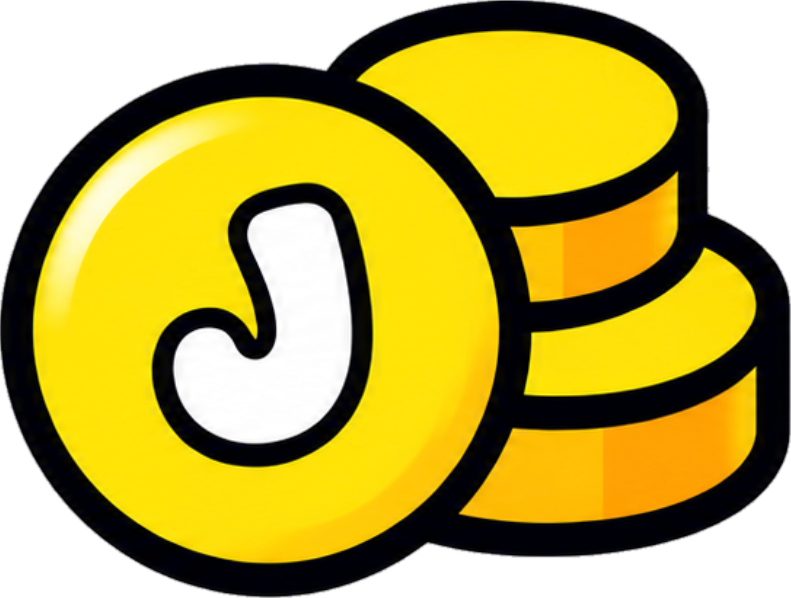
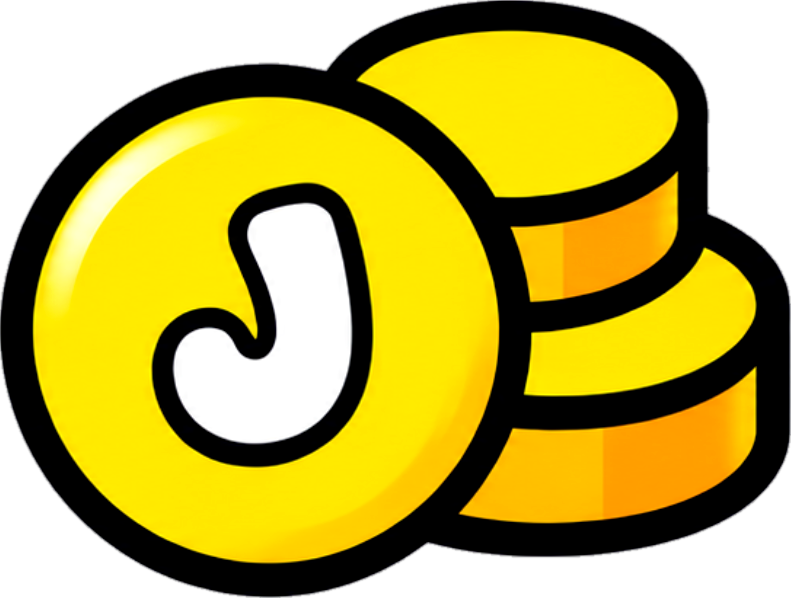
fix(ui): boost coin size, contrast and luminous drop-shadow for prominent visibility in pills

diff --git a/src/components/game/DedicatedGamePlayer.tsx b/src/components/game/DedicatedGamePlayer.tsx
@@ -234,10 +234,10 @@ export function DedicatedGamePlayer({ game }: DedicatedGamePlayerProps) {
           {/* Live Jumby Coins Pill */}
           <button
             onClick={openShop}
-            className="relative flex items-center gap-1.5 px-2.5 py-1 rounded-full bg-jumby-lime/10 hover:bg-jumby-lime/20 border border-jumby-lime/30 text-jumby-lime text-xs font-heading font-black transition-all active:scale-95"
+            className="relative flex items-center gap-1.5 pl-2 pr-2.5 py-1 rounded-full bg-jumby-lime/10 hover:bg-jumby-lime/20 border border-jumby-lime/30 text-jumby-lime text-xs font-heading font-black transition-all active:scale-95"
             title="Your Jumby Coins"
           >
-            <JumbyCoin size="xs" className="w-3.5 h-3.5" />
+            <JumbyCoin size="md" className="h-5 w-auto" />
             {floatingCoin && (
               <span className="absolute -bottom-6 left-1/2 -translate-x-1/2 px-2 py-0.5 rounded-full bg-jumby-lime text-zinc-950 text-[10px] font-black shadow-md animate-bounce flex items-center gap-1 whitespace-nowrap">
                 <span>+{floatingCoin.amount}</span>

diff --git a/src/components/explore/ExploreGrid.tsx b/src/components/explore/ExploreGrid.tsx
@@ -113,10 +113,10 @@ export function ExploreGrid({ games }: ExploreGridProps) {
             {/* Jumby Coins Pill with Plus */}
             <button
               onClick={openShop}
-              className="flex items-center gap-2 px-3 py-1.5 rounded-full bg-[#1b1935] hover:bg-[#25224a] border border-white/10 text-white font-heading font-black text-xs shadow-inner transition-all active:scale-95 cursor-pointer"
+              className="flex items-center gap-2 pl-2.5 pr-3 py-1.5 rounded-full bg-[#1b1935] hover:bg-[#25224a] border border-white/10 text-white font-heading font-black text-xs shadow-inner transition-all active:scale-95 cursor-pointer"
               title="Open Jumby Wallet"
             >
-              <JumbyCoin size="sm" className="w-4 h-4" />
+              <JumbyCoin size="md" className="h-5.5 w-auto" />
               <span>{coins ? coins.toLocaleString() : '2,450'}</span>
               <Plus className="w-3 h-3 text-zinc-400 stroke-[3]" />
             </button>

diff --git a/src/components/create/LovableHeroCreator.tsx b/src/components/create/LovableHeroCreator.tsx
@@ -170,10 +170,10 @@ export function LovableHeroCreator({
           <button
             type="button"
             onClick={openShop}
-            className="flex items-center gap-2 px-3 py-1.5 rounded-full bg-[#1b1935] hover:bg-[#25224a] border border-white/10 text-white font-heading font-black text-xs shadow-inner transition-all active:scale-95 cursor-pointer"
+            className="flex items-center gap-2 pl-2.5 pr-3 py-1.5 rounded-full bg-[#1b1935] hover:bg-[#25224a] border border-white/10 text-white font-heading font-black text-xs shadow-inner transition-all active:scale-95 cursor-pointer"
             title="Jumby Coins"
           >
-            <JumbyCoin size="sm" className="w-4 h-4" />
+            <JumbyCoin size="md" className="h-5.5 w-auto" />
             <span>{coins ? coins.toLocaleString() : '2,450'}</span>
             <Plus className="w-3 h-3 text-zinc-400 stroke-[3]" />
           </button>

diff --git a/src/components/brand/JumbyCoin.tsx b/src/components/brand/JumbyCoin.tsx
@@ -8,11 +8,11 @@ interface JumbyCoinProps {
 }
 
 const SIZE_MAP: Record<string, string> = {
-  xs: 'w-3.5 h-3.5',
-  sm: 'w-4 h-4',
-  md: 'w-5 h-5',
-  lg: 'w-6 h-6',
-  xl: 'w-8 h-8',
+  xs: 'h-3.5 w-auto',
+  sm: 'h-4.5 w-auto',
+  md: 'h-5.5 w-auto',
+  lg: 'h-7 w-auto',
+  xl: 'h-9 w-auto',
 };
 
 export function JumbyCoin({ size = 'sm', className = '' }: JumbyCoinProps) {
@@ -22,7 +22,7 @@ export function JumbyCoin({ size = 'sm', className = '' }: JumbyCoinProps) {
     <img
       src="/images/jumby-coin.png"
       alt="Jumby Coin"
-      className={`inline-block object-contain shrink-0 select-none pointer-events-none drop-shadow-sm ${sizeClass} ${className}`}
+      className={`inline-block object-contain shrink-0 select-none pointer-events-none drop-shadow-[0_1px_3px_rgba(255,200,0,0.45)] ${sizeClass} ${className}`}
       draggable={false}
     />
   );

diff --git a/src/components/feed/GameCard.tsx b/src/components/feed/GameCard.tsx
@@ -174,9 +174,9 @@ export function GameCard({ game, isActive }: GameCardProps) {
           <button
             onClick={openShop}
             title="Open Jumby Coin Shop"
-            className="flex items-center gap-1 px-2 py-0.5 rounded-full bg-jumby-lime/15 hover:bg-jumby-lime/25 border border-jumby-lime/30 text-[11px] font-black text-jumby-lime backdrop-blur-md active:scale-95 transition-all shadow-sm font-heading"
+            className="flex items-center gap-1.5 pl-2 pr-2.5 py-0.5 rounded-full bg-jumby-lime/15 hover:bg-jumby-lime/25 border border-jumby-lime/30 text-[11px] font-black text-jumby-lime backdrop-blur-md active:scale-95 transition-all shadow-sm font-heading"
           >
-            <JumbyCoin size="xs" className="w-3.5 h-3.5" />
+            <JumbyCoin size="sm" className="h-4 w-auto" />
             <span>{coins}</span>
           </button>
 
